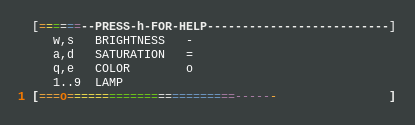
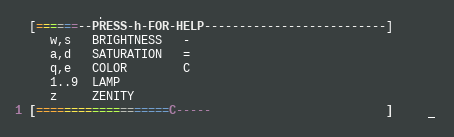
readme updated

diff --git a/README.md b/README.md
@@ -22,6 +22,7 @@ Use "lampe" like a computer-game without gamepad or arrow-keys - use WASD. *(:*
   s - lower brightness
   d - increase saturation
 q,e - change hue-color
+  z - open zenity-dialog to pick RGB-color 
 ```
 **example output**
  
@@ -29,8 +30,9 @@ q,e - change hue-color
    [======--PRESS-h-FOR-HELP--------------------------]
       w,s   BRIGHTNESS   -
       a,d   SATURATION   =
-      q,e   COLOR        o
+      q,e   COLOR        C
       1..9  LAMP
+      z     ZENITY
  1 [===C========================------                ] off 
 ```
 
